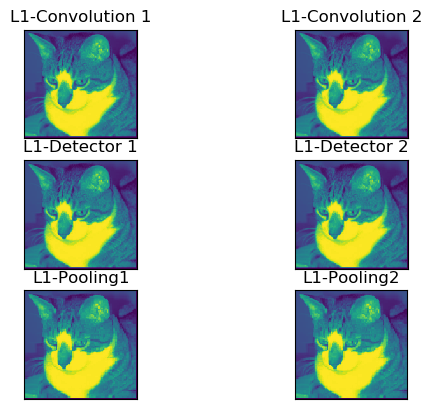
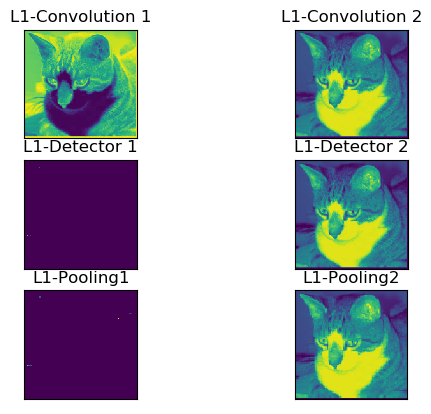
updated main program; updated boundaries for param init

diff --git a/ForwardProp.py b/ForwardProp.py
@@ -58,17 +58,21 @@ def convolution_calculation(input_matrix, conv_filter, padding_layer, stride):
     return output_matrix
 
 def init_filter(filter_number, filter_size_length, filter_size_width, input_shape):
+    # set the lower and upper bound of randomized parameters to be intialized in filter
+    LOWER_BOUND = -10
+    UPPER_BOUND = 10
+
     #Initialize Convulation Filter / Kernel
     if (len(input_shape) > 2):
         filter_channel = input_shape[-1]
 
         convolution_filter = np.zeros((filter_number, filter_size_length, filter_size_width, filter_channel))
         for i in range(filter_number):
-            convolution_filter[i, :, :, :] = np.random.uniform(low=0.1, high=0.5, size=(filter_size_length, filter_size_width, filter_channel))
+            convolution_filter[i, :, :, :] = np.random.uniform(low=LOWER_BOUND, high=UPPER_BOUND, size=(filter_size_length, filter_size_width, filter_channel))
     else:
         convolution_filter = np.zeros((filter_number, filter_size_length, filter_size_width))
         for i in range(filter_number):
-            convolution_filter[i, :, :] = np.random.uniform(low=0.1, high=0.5, size=(filter_size_length, filter_size_width))
+            convolution_filter[i, :, :] = np.random.uniform(low=LOWER_BOUND, high=UPPER_BOUND, size=(filter_size_length, filter_size_width))
     
     return convolution_filter
     

diff --git a/example.py b/example.py
@@ -10,19 +10,19 @@ BASE_IMG_DIR = "images/sandbox/"
 img = numpycnn.load_image(f"{BASE_IMG_DIR}cat.38.jpg")
 
 #Convoluting the image
-print("\n**Working with conv layer**")
+print("**Convolution Layer Start**")
+print("**Convolution Stage**")
 l1_feature_map = numpycnn.convolution_stage(img, 2, 3, 2, 2, 0, 2) # (input_matrix, filter_number, filter_size_length, filter_size_width, pad_layer, padded_number, stride=1):
-print("\n**ReLU**")
+print("**Detector Stage**")
 l1_feature_map_relu = numpycnn.activation(l1_feature_map)
-print("\n**Pooling**")
+print("**Pooling Stage**")
 l1_feature_map_relu_pool = numpycnn.pool_stage(l1_feature_map_relu, 2, 2, 2)
-print("**End of conv layer**\n")
+print("**End of Convolution Layer**\n")
 
 print("**Dense layer**")
 l1_flat = numpycnn.flatten(l1_feature_map_relu_pool)
-l1_dense_output = numpycnn.dense(l1_flat, 10, "sigmoid")
-
-print("\n**Dense output**")
+l1_dense_output = numpycnn.dense(l1_flat, 10, "relu")
+print("**Dense output**")
 print(l1_dense_output)
 
 # Showing the image output of each layer
